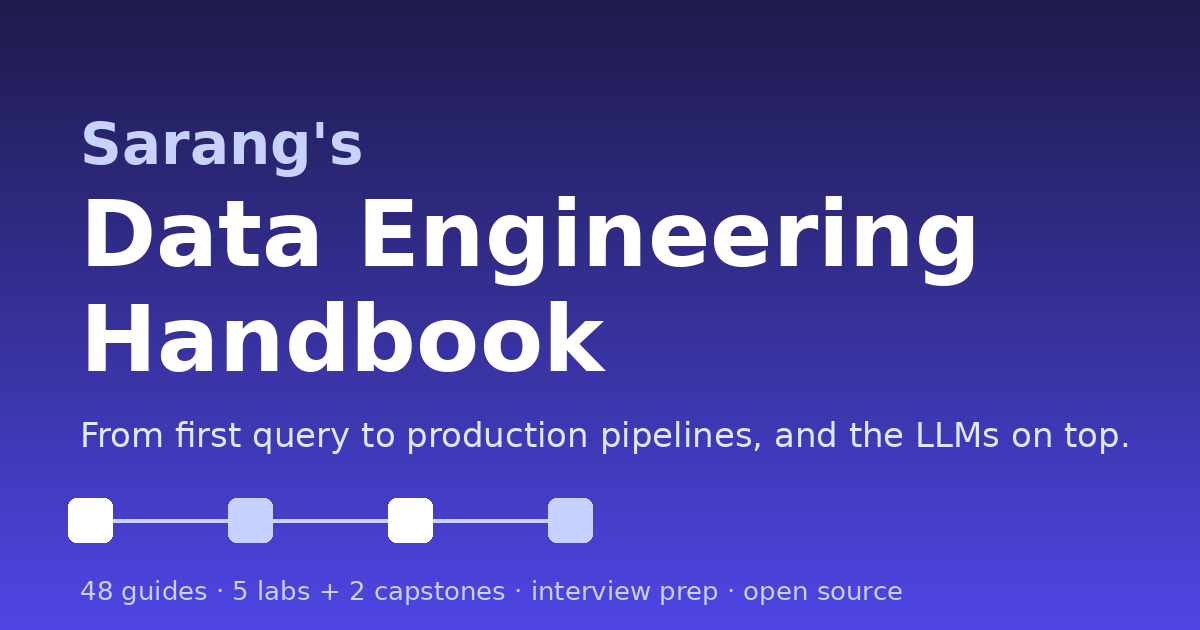
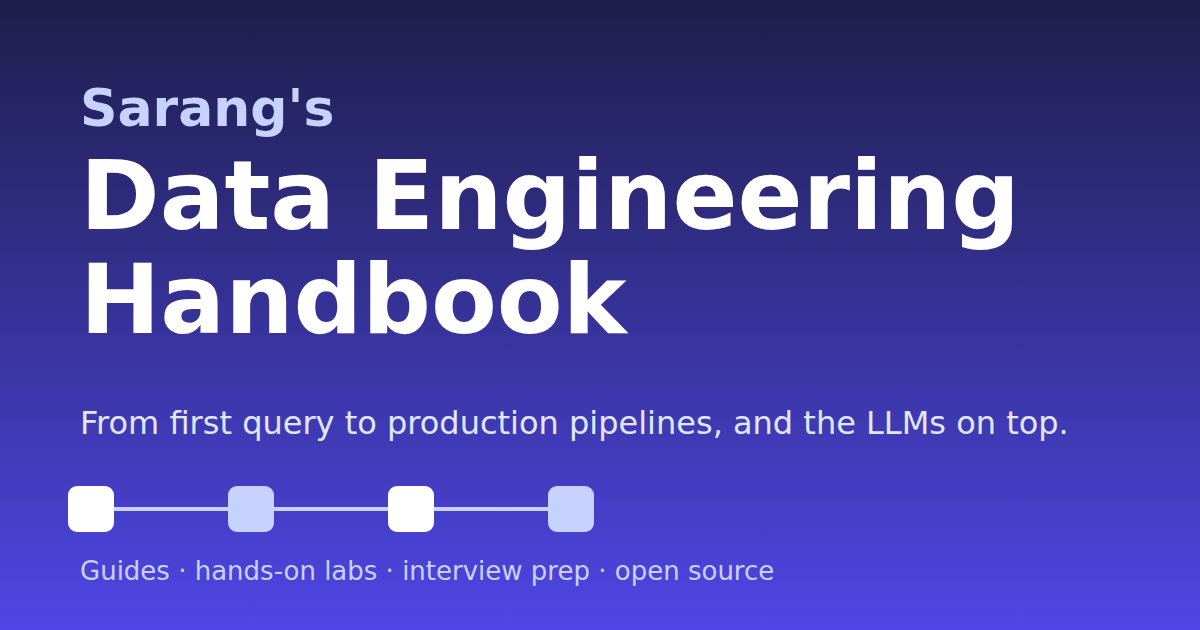
docs: regenerate the social card without counts, and add the script that makes it
The link-preview image said "48 guides · 5 labs + 2 capstones", which was out of
date. tools/make_social_card.py renders it from a template with headless
Chromium and states no counts, so it stays correct as content is added. A name
change is one command: --kicker and --title.

Changed region(s): [[0.0617, 0.1206, 0.8633, 0.6032], [0.0617, 0.754, 0.7708, 0.9651], [0.0617, 0.6333, 0.925, 0.7238]]

diff --git a/tools/make_social_card.py b/tools/make_social_card.py
@@ -1,0 +1,65 @@
+"""Render the 1200x630 image that link previews show (docs/assets/social-card.png).
+
+    pip install -r requirements-pdf.txt && playwright install chromium
+    python tools/make_social_card.py                        # uses the defaults below
+    python tools/make_social_card.py --kicker "" --title "Data Engineering Handbook"
+
+It states no counts of guides or labs, so it does not go out of date when content is added.
+"""
+from __future__ import annotations
+
+import argparse
+import html
+from pathlib import Path
+
+from playwright.sync_api import sync_playwright
+
+OUT = Path(__file__).resolve().parent.parent / "docs" / "assets" / "social-card.png"
+
+PAGE = """<!doctype html><meta charset="utf-8"><style>
+  * {{ box-sizing: border-box; margin: 0; }}
+  body {{ width: 1200px; height: 630px; padding: 80px; position: relative; overflow: hidden;
+         font-family: "DejaVu Sans", "Helvetica Neue", Arial, sans-serif; color: #fff;
+         background: linear-gradient(180deg, #1e1e4b 0%, #4f46e5 100%); }}
+  .kicker {{ font-size: 52px; font-weight: 700; color: #c7d2fe; line-height: 1.1; }}
+  .title {{ font-size: 96px; font-weight: 700; line-height: 1.08; margin-top: 8px; max-width: 1000px; }}
+  .tagline {{ position: absolute; left: 80px; top: 404px; font-size: 32px; color: #e0e7ff; }}
+  .chain {{ position: absolute; left: 68px; top: 486px; width: 530px; height: 46px; }}
+  .chain i {{ position: absolute; top: 0; width: 46px; height: 46px; border-radius: 9px; background: #fff; }}
+  .chain i:nth-of-type(even) {{ background: #c7d2fe; }}
+  .chain b {{ position: absolute; top: 21px; height: 4px; background: #c7d2fe; }}
+  .foot {{ position: absolute; left: 80px; bottom: 44px; font-size: 26px; color: #c7d2fe; }}
+</style>
+<body>
+  <div class="kicker">{kicker}</div>
+  <div class="title">{title}</div>
+  <div class="tagline">{tagline}</div>
+  <div class="chain">
+    <b style="left:46px;width:114px"></b><b style="left:206px;width:114px"></b><b style="left:366px;width:114px"></b>
+    <i style="left:0"></i><i style="left:160px"></i><i style="left:320px"></i><i style="left:480px"></i>
+  </div>
+  <div class="foot">{footer}</div>
+</body>"""
+
+
+def main() -> None:
+    parser = argparse.ArgumentParser(description=__doc__, formatter_class=argparse.RawDescriptionHelpFormatter)
+    parser.add_argument("--kicker", default="Sarang's")
+    parser.add_argument("--title", default="Data Engineering Handbook")
+    parser.add_argument("--tagline", default="From first query to production pipelines, and the LLMs on top.")
+    parser.add_argument("--footer", default="Guides · hands-on labs · interview prep · open source")
+    parser.add_argument("--out", type=Path, default=OUT)
+    args = parser.parse_args()
+    page_html = PAGE.format(kicker=html.escape(args.kicker), title=html.escape(args.title),
+                            tagline=html.escape(args.tagline), footer=html.escape(args.footer))
+    with sync_playwright() as p:
+        browser = p.chromium.launch()
+        page = browser.new_page(viewport={"width": 1200, "height": 630})
+        page.set_content(page_html)
+        page.screenshot(path=str(args.out))
+        browser.close()
+    print(f"wrote {args.out}")
+
+
+if __name__ == "__main__":
+    main()
